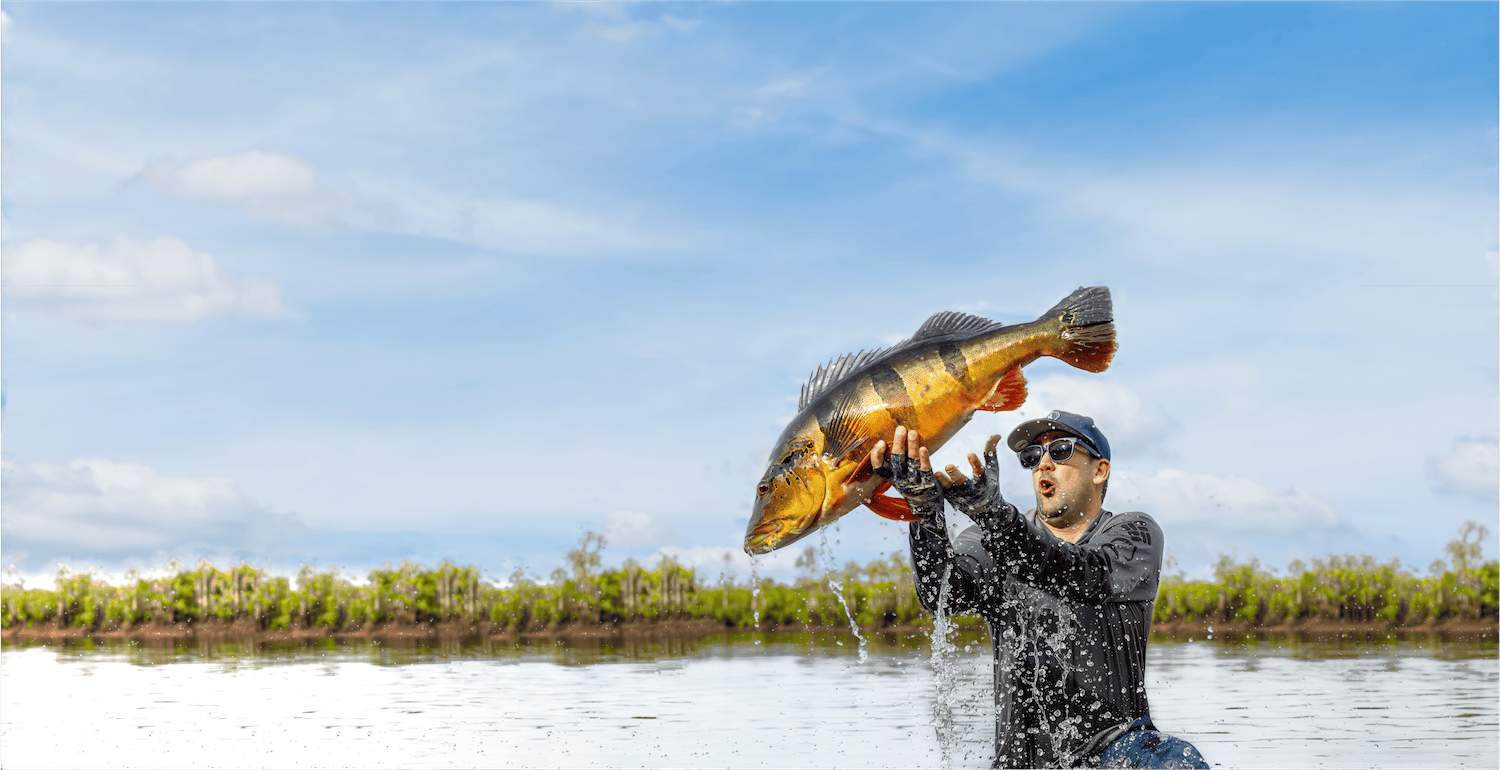
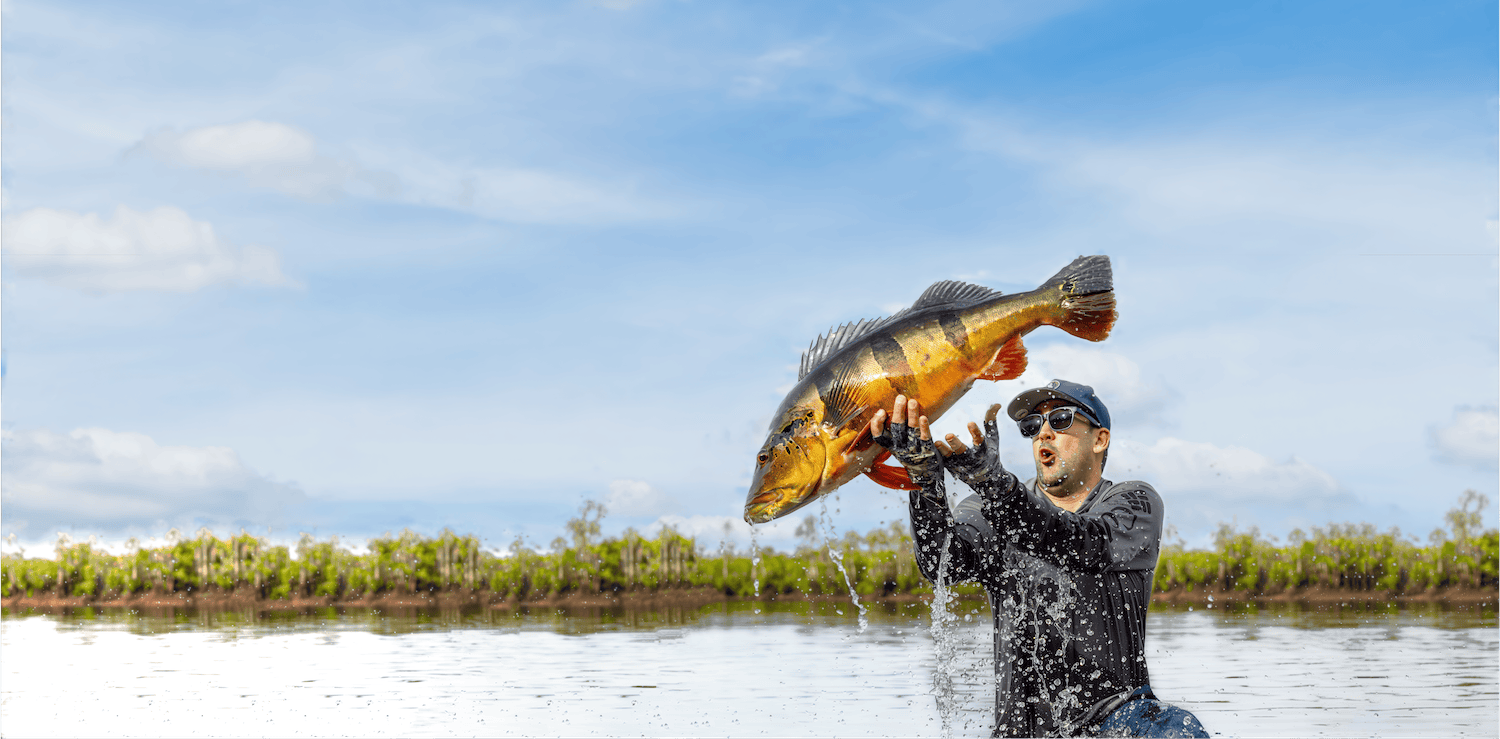
adjusted the height of the image in dontletitgetaway component

diff --git a/src/components/specific/OurDestinations/DontLetItGetAway.jsx b/src/components/specific/OurDestinations/DontLetItGetAway.jsx
@@ -30,7 +30,7 @@ const DontLetItGetAway = () => {
             </div>
 
             {/* Background Image with Gradient Overlay */}
-            <div className="relative w-full h-[300px] sm:h-[850px] -mt-16 sm:mt-0">
+            <div className="relative w-full h-[300px] sm:h-[800px] -mt-16 sm:mt-0">
                 <img
                     src={DontMissItBackgroundImg}
                     alt="Don't miss out background"
